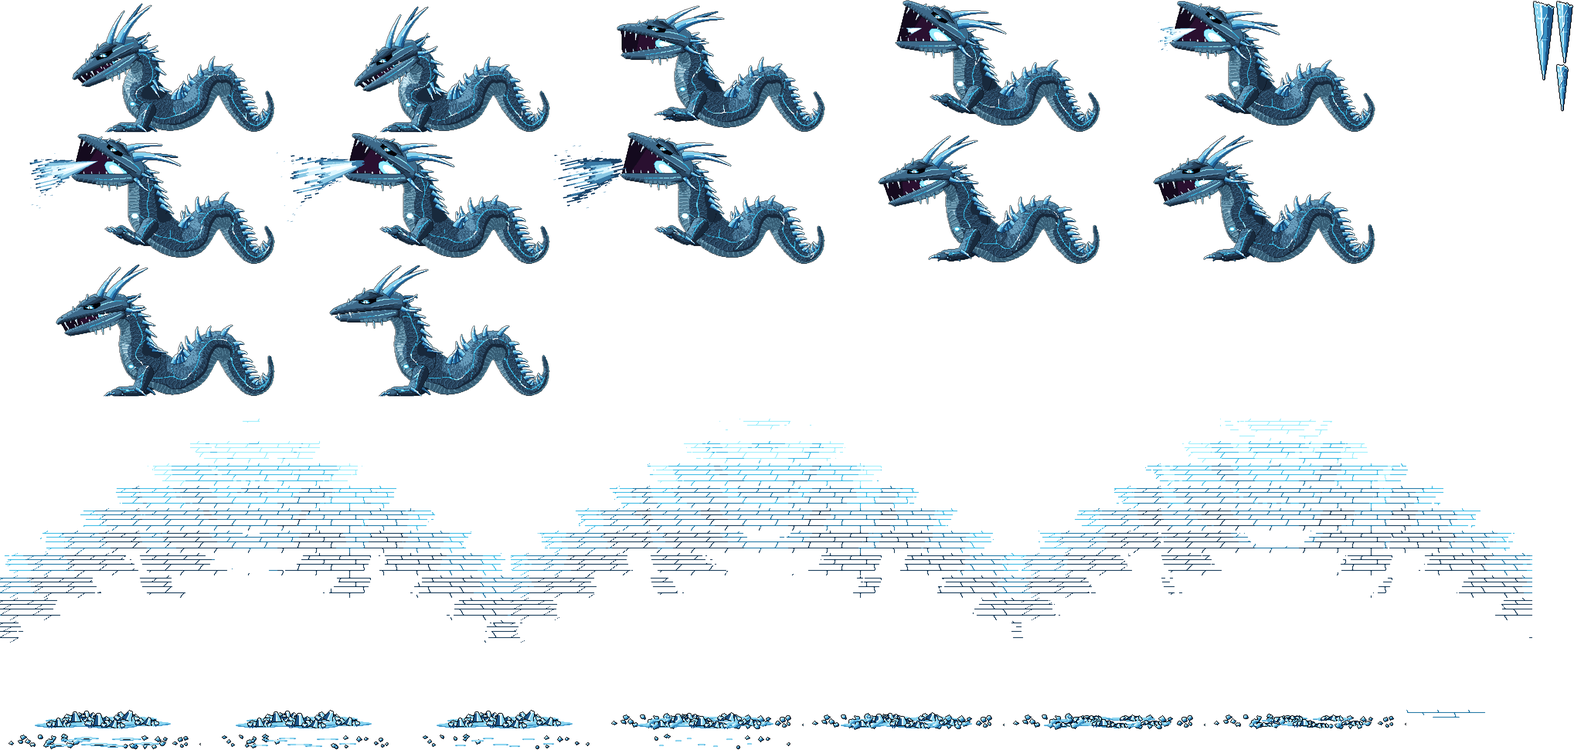
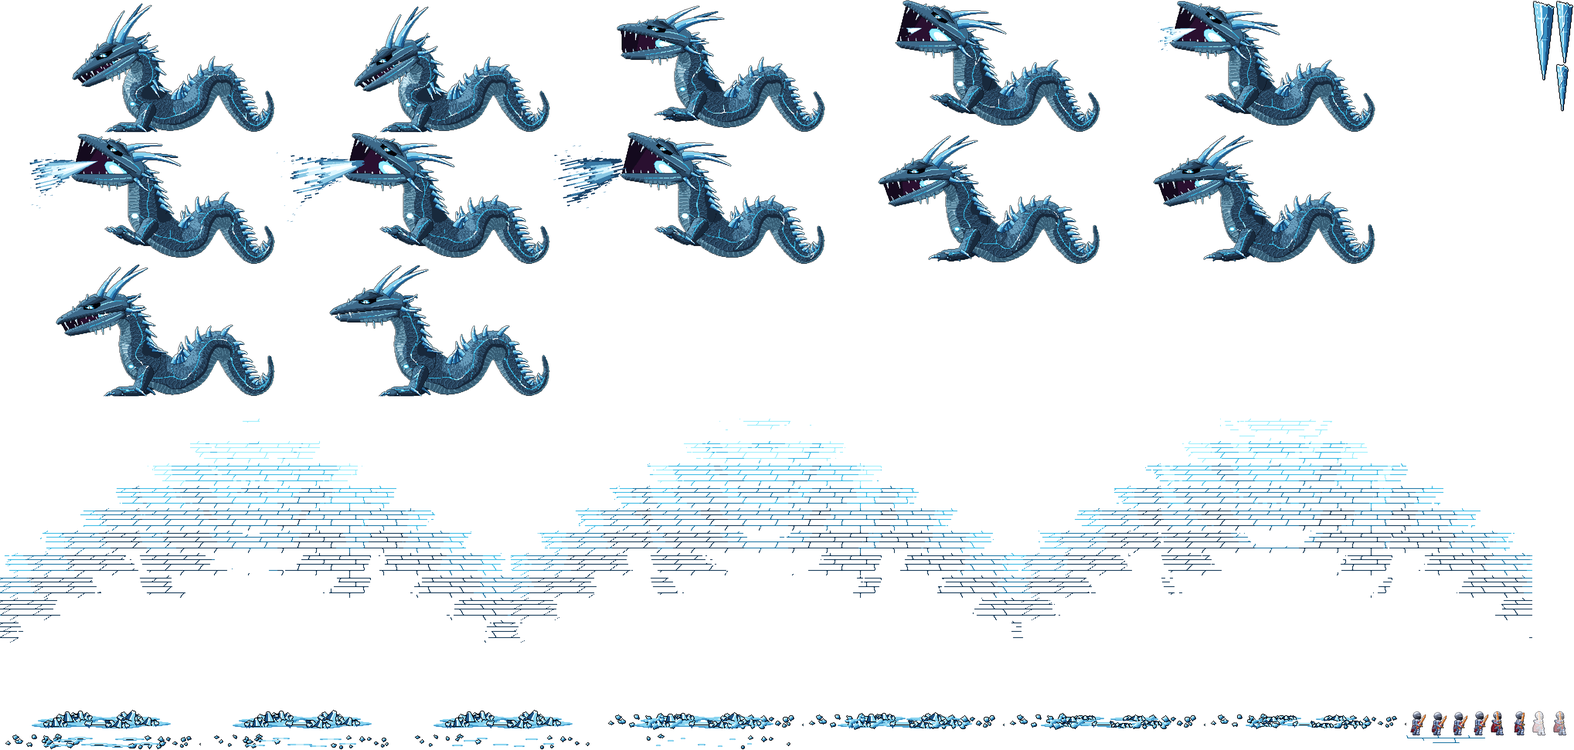
Bosskino: Bosse greifen einen Helden an (echte Spielfigur, kleine Trefferanimation)
Claude-Session: https://claude.ai/code/session_016qez4g2cYdi8Ag5boUatPM

diff --git a/site/bosskino.js b/site/bosskino.js
@@ -2,6 +2,8 @@
 // Eine breite Bühne zeigt die Bosse nacheinander, jeden riesig in seinem Gebiet: Ebenen mit Parallaxe in ganzen
 // Szenenpixeln, Ruhe aus Teilen mit eigenen Zyklen, dann seine Signatur-Attacke: gestufte Warnmarke am Boden → Ausholen →
 // Halten → Einschlag (Treffer-Einfrieren „stopp“, abklingendes Beben „beben“) → Effekt durch die Bodenfugen und den Raum → Ausklingen.
+// Ziel der Attacke ist ein Held (echte Spielfigur, klein gegenüber dem Boss, META held): Kampfhaltung in Ruhe, beim Treffer
+// ein harter Blitz und kurzes Zurückweichen; die Spur der Feuer-/Wasserwand brennt hinter ihm, die Wand selbst rollt über ihn.
 // Bilder im Feinraster wie im Spiel (META.szene.F Feinpixel je Szenenpixel), gezeichnet mit e Gerätepixeln je Feinpixel
 // (ganzzahlig); Lagen und Bewegungen in Szenenpixeln. Wechsel als Ascheauflösung in Blöcken.
 // Die Bildatlanten werden erst geladen, wenn der Abschnitt naht; die Schleife läuft nur, solange die Bühne sichtbar ist.
@@ -13,7 +15,7 @@
   const poster = stage?.querySelector('img');
   if (!root || !stage || !poster) return;
   // <bosskino.mjs> – von tools/bosskino.mjs geschrieben, nicht von Hand ändern
-  const META = {"szene":{"W":560,"H":216,"FY":190,"F":2,"X0":-152,"X1":712},"reihe":["nerith","skalvyr","malgareth"],"bosse":{"nerith":{"glut":["#e4fff9","#3cc8b8","#0d5f5a"],"fokus":[300,290],"teilchen":"geist","dichte":3,"dauer":9.5,"start":2.2,"stopp":80,"beben":[[0,3],[2,-2],[-2,1],[1,-1],[0,1],[1,0]],"name":"nerith","fig":{"x":216,"y":22,"w":285,"h":169},"ruhe":[{"n":12,"ms":160,"r":"koerper"}],"moment":{"f":[[0,150],[1,130],[2,120],[3,120],[4,120],[5,120],[6,60],[7,70],[8,80],[9,110],[10,160],[11,220],[12,150],[13,150]],"hit":7},"nach":"boden-glut","ereignisse":[{"k":"bild","r":"welle","at":0,"x":-152,"y":187,"w":400,"h":29,"n":37,"ms":60,"z":"boden"},{"k":"bild","r":"krone","at":0,"x":209,"y":100,"w":64,"h":92,"n":9,"ms":70,"quer":true,"z":"vorn"},{"k":"wand","r":"wand","r2":"wand2","r3":"wand3","at":60,"x":227,"y":193,"dir":-1,"v":260,"weg":373,"w":76,"h":72,"w2":30,"h2":22,"w3":18,"h3":12,"n":6,"ms":80,"abst":9,"nach":620,"z":"vorn","einzeln":true,"staub":["#c6eaf6","#6cb8da","#3384ae"]},{"k":"funken","at":0,"x":241,"y":188,"n":36,"r":6,"vx":70,"vy":160,"g":320,"c":["#c6eaf6","#76bcdc","#3886b2","#1a4f78"]},{"k":"funken","at":40,"x":241,"y":189,"n":18,"r":12,"vx":20,"vy":40,"g":0,"c":["#e4fff9","#8cf0e2","#3cc8b8","#0d5f5a"]}],"warn":{"x0":10,"x1":233,"y":187,"h":7,"dir":-1,"vor":700,"c":["#063a48","#0e7888","#a0fff0"]},"schalen":[[84,127],[460,127]],"schale":{"w":16,"h":20,"n":6,"ms":90},"schaleNach":"mitte-glut","blaetter":2,"dims":[[4026,1948],[3872,804]],"layers":[{"name":"fern","x":-152,"y":0,"f":0.15,"r":[1728,432,[1,0,0,1,1]]},{"name":"fern-glut","x":126,"y":19,"f":0.15,"glow":{"per":4.2,"lo":0.45,"steps":3},"r":[992,262,[1,1728,432,1,1]]},{"name":"mitte","x":-152,"y":30,"f":0.45,"r":[1728,372,[1,0,432,1,1]]},{"name":"mitte-glut","x":36,"y":70,"f":0.45,"glow":{"per":3.7,"lo":0.55,"steps":3},"r":[954,152,[1,2720,616,1,1]]},{"name":"boden","x":-152,"y":186,"f":1,"r":[1728,60,[0,912,1804,1,1]]},{"name":"boden-glut","x":267,"y":187,"f":1,"glow":{"per":2.8,"lo":0.45,"steps":3},"r":[360,58,[0,2640,1804,1,1]]},{"name":"vorn","x":-152,"y":0,"f":1.35,"r":[1714,432,[1,1728,0,1,1]]}],"figur":{"r":{"koerper":[366,332,[0,0,676,11,12]],"moment":[570,338,[0,0,0,7,14]]},"o":{"koerper":[85,3,183,166],"moment":[0,0,285,169]}},"fxr":{"wand":[152,144,[0,0,1804,6,6]],"wand2":[60,44,[0,3000,1804,6,6]],"wand3":[36,24,[0,3552,1804,6,6]],"schale":[32,40,[0,3360,1804,6,6]],"krone":[128,184,[1,2720,432,9,9]],"welle":[800,58,[0,0,1340,5,37]]}},"skalvyr":{"glut":["#ffffff","#9aeefc","#34b8e4"],"fokus":[296,298],"teilchen":"schnee","dichte":5,"dauer":9.5,"start":2.2,"beben":[[0,4],[3,-3],[-3,2],[2,-2],[-2,1],[1,-1],[0,1],[1,0]],"stopp":80,"name":"skalvyr","fig":{"x":167,"y":20,"w":356,"h":171},"ruhe":[{"n":12,"ms":150,"r":"koerper"}],"moment":{"f":[[0,150],[1,170],[2,100],[3,110],[4,110],[5,110],[6,110],[7,110],[8,150],[9,170],[10,190],[11,170]],"hit":8},"nach":"boden-glut","ereignisse":[{"k":"bild","r":"schatten","at":-770,"x":62,"y":176,"w":260,"h":26,"n":20,"ms":40,"quer":true,"z":"boden"},{"k":"bild","r":"reste","at":270,"x":62,"y":176,"w":260,"h":26,"n":11,"ms":150,"quer":true,"z":"boden"},{"k":"bild","r":"welle","at":0,"x":-138,"y":187,"w":661,"h":29,"n":41,"ms":60,"z":"boden"},{"k":"zapfen","r":"zapfen-s","r2":"steckt-s","at":-20,"x":174,"y":187,"vor":640,"w":18,"h":62,"n":5,"ms":16,"sw":54,"sh":68,"mr":1,"z":"vorn"},{"k":"zapfen","r":"zapfen-m","r2":"steckt-m","at":-70,"x":226,"y":188,"vor":640,"w":24,"h":82,"n":5,"ms":26,"sw":60,"sh":88,"mr":1,"z":"vorn"},{"k":"zapfen","r":"zapfen-m","r2":"steckt-m","at":-110,"x":160,"y":190,"vor":640,"w":24,"h":82,"n":5,"ms":34,"sw":60,"sh":88,"mr":1,"z":"vorn"},{"k":"zapfen","r":"zapfen-s","r2":"steckt-s","at":-130,"x":252,"y":194,"vor":640,"w":18,"h":62,"n":5,"ms":38,"sw":54,"sh":68,"mr":1,"z":"vorn"},{"k":"zapfen","r":"zapfen-l","r2":"steckt-l","at":0,"x":190,"y":195,"vor":640,"w":30,"h":104,"n":5,"ms":12,"sw":66,"sh":110,"mr":1,"z":"vorn"},{"k":"zapfen","r":"zapfen-s","r2":"steckt-s","at":-40,"x":138,"y":196,"vor":640,"w":18,"h":62,"n":5,"ms":20,"sw":54,"sh":68,"mr":1,"z":"vorn"},{"k":"zapfen","r":"zapfen-s","r2":"steckt-s","at":-90,"x":208,"y":197,"vor":640,"w":18,"h":62,"n":5,"ms":30,"sw":54,"sh":68,"mr":1,"z":"vorn"},{"k":"bild","r":"kranz","at":0,"x":62,"y":52,"w":260,"h":150,"n":12,"ms":60,"quer":true,"z":"vorn"},{"k":"funken","at":-520,"x":200,"y":10,"n":10,"r":16,"vx":6,"vy":-30,"g":140,"c":["#ffffff","#9aeefc","#34b8e4","#1670a0"]},{"k":"funken","at":-460,"x":150,"y":10,"n":10,"r":16,"vx":6,"vy":-30,"g":140,"c":["#ffffff","#9aeefc","#34b8e4","#1670a0"]},{"k":"funken","at":-400,"x":250,"y":10,"n":10,"r":16,"vx":6,"vy":-30,"g":140,"c":["#ffffff","#9aeefc","#34b8e4","#1670a0"]},{"k":"funken","at":-340,"x":120,"y":10,"n":10,"r":16,"vx":6,"vy":-30,"g":140,"c":["#ffffff","#9aeefc","#34b8e4","#1670a0"]},{"k":"funken","at":-280,"x":228,"y":10,"n":10,"r":16,"vx":6,"vy":-30,"g":140,"c":["#ffffff","#9aeefc","#34b8e4","#1670a0"]},{"k":"funken","at":-220,"x":176,"y":10,"n":10,"r":16,"vx":6,"vy":-30,"g":140,"c":["#ffffff","#9aeefc","#34b8e4","#1670a0"]}],"warn":null,"blaetter":3,"dims":[[4074,1942],[4056,1936],[3640,588]],"layers":[{"name":"fern","x":-152,"y":0,"f":0.15,"r":[1728,432,[1,0,1284,1,1]]},{"name":"fern-glut","x":264,"y":7,"f":0.15,"glow":{"per":3.8,"lo":0.55,"steps":3},"r":[220,342,[1,3640,0,1,1]]},{"name":"mitte","x":-152,"y":0,"f":0.45,"r":[1728,432,[1,1728,1284,1,1]]},{"name":"mitte-glut","x":-140,"y":0,"f":0.45,"glow":{"per":3.1,"lo":0.5,"steps":3},"r":[1696,342,[2,1728,0,1,1]]},{"name":"boden","x":-152,"y":186,"f":1,"r":[1728,60,[1,660,1716,1,1]]},{"name":"boden-glut","x":341,"y":192,"f":1,"glow":{"per":3.3,"lo":0.4,"steps":3},"r":[204,20,[0,3640,1838,1,1]]},{"name":"vorn","x":-152,"y":0,"f":1.35,"r":[1728,432,[2,0,0,1,1]]}],"figur":{"r":{"koerper":[598,342,[1,0,0,6,12]],"moment":[712,342,[0,0,0,5,12]]},"o":{"koerper":[57,0,299,171],"moment":[0,0,356,171]}},"fxr":{"zapfen-l":[60,208,[0,3966,0,1,1]],"steckt-l":[132,220,[1,0,1716,5,5]],"zapfen-m":[48,164,[0,4026,0,1,1]],"steckt-m":[120,176,[1,3456,1284,5,5]],"zapfen-s":[36,124,[0,4026,164,1,1]],"steckt-s":[108,136,[1,3456,1460,5,5]],"kranz":[520,300,[1,0,684,7,12]],"schatten":[520,52,[2,0,432,7,20]],"reste":[520,52,[0,0,1838,7,11]],"welle":[1322,58,[0,0,1026,3,41]]}},"malgareth":{"name":"malgareth","glut":["#fff2c0","#ffb648","#c8420c"],"fokus":[300,290],"fig":{"x":209,"y":23,"w":272,"h":171},"ruhe":[{"r":"hinten","n":8,"ms":170},{"r":"koerper","seq":[0,0,0,1,1,2,2,2,1,1],"ms":210},{"r":"krone","n":6,"ms":100,"dy":[0,-1,-2],"von":"koerper"},{"r":"flamme","n":6,"ms":100}],"moment":{"f":[[0,130],[1,110],[2,110],[3,80],[4,80],[5,80],[6,80],[7,80],[8,80],[9,80],[10,60],[11,50],[12,60],[13,70],[14,90],[15,110],[16,140],[17,140],[18,140],[19,110],[20,130],[21,110],[22,130],[23,120]],"hit":12},"stopp":80,"beben":[[0,3],[2,-2],[-1,1],[1,0]],"warn":{"x0":8,"x1":242,"y":187,"h":7,"dir":-1,"vor":760,"c":["#7a1a08","#c8420c","#ffb648"]},"ereignisse":[{"k":"bild","r":"welle","at":0,"x":-152,"y":187,"w":407,"h":29,"n":36,"ms":60,"z":"boden"},{"k":"bild","r":"blitz","at":0,"x":228,"y":159,"w":41,"h":34,"n":5,"ms":60,"quer":true,"z":"vorn"},{"k":"wand","r":"wand","r2":"wand2","r3":"wand3","at":30,"x":244,"y":193,"dir":-1,"v":300,"weg":330,"w":74,"h":100,"w2":40,"h2":58,"w3":18,"h3":28,"n":6,"ms":70,"abst":8,"nach":680,"z":"vorn"},{"k":"funken","at":0,"x":248,"y":188,"n":34,"r":5,"vx":60,"vy":140,"g":300,"c":["#fff2c0","#ffb648","#e8641a","#a8300a"]},{"k":"funken","at":0,"x":248,"y":189,"n":20,"r":9,"vx":40,"vy":50,"g":80,"c":["#6a5040","#4e3a30","#3a2a24"]}],"schalen":[[70,131],[436,131]],"schale":{"w":16,"h":20,"n":6,"ms":90},"schaleNach":"mitte-glut","teilchen":"asche","dichte":2.2,"nach":"boden-glut","dauer":9.5,"start":2.4,"blaetter":2,"dims":[[4070,1948],[4002,1194]],"layers":[{"name":"fern","x":-152,"y":0,"f":0.15,"r":[1728,432,[1,0,0,1,1]]},{"name":"fern-glut","x":286,"y":0,"f":0.15,"glow":{"per":3.6,"lo":0.55,"steps":3},"r":[338,322,[1,3456,0,1,1]]},{"name":"mitte","x":-152,"y":0,"f":0.45,"r":[1728,432,[1,1728,0,1,1]]},{"name":"mitte-glut","x":73,"y":149,"f":0.45,"glow":{"per":4.1,"lo":0.66,"steps":3},"r":[754,132,[1,3232,836,1,1]]},{"name":"boden","x":-152,"y":186,"f":1,"r":[1728,60,[0,890,1832,1,1]]},{"name":"boden-glut","x":230,"y":187,"f":1,"glow":{"per":3.4,"lo":0.6,"steps":3},"r":[488,44,[0,2834,1832,1,1]]},{"name":"vorn","x":-152,"y":0,"f":1.35,"r":[1386,432,[1,0,432,1,1]]}],"figur":{"fx":143,"fy":167,"r":{"hinten":[374,330,[1,0,864,8,8]],"koerper":[182,314,[1,3456,322,3,3]],"krone":[54,44,[0,3322,1832,6,6]],"flamme":[40,148,[1,2992,836,6,6]],"moment":[544,342,[0,0,0,7,24]]},"o":{"hinten":[51,3,187,165],"koerper":[98,11,91,157],"krone":[131,5,27,22],"flamme":[134,94,20,74],"moment":[0,0,272,171]}},"fxr":{"welle":[814,58,[0,0,1368,5,36]],"wand":[148,200,[1,2992,636,6,6]],"wand2":[80,116,[0,0,1832,6,6]],"wand3":[36,56,[0,2618,1832,6,6]],"schale":[32,40,[0,3646,1832,6,6]],"blitz":[82,68,[0,480,1832,5,5]]}}},"v":"6634599ccd"};
+  const META = {"szene":{"W":560,"H":216,"FY":190,"F":2,"X0":-152,"X1":712},"reihe":["nerith","skalvyr","malgareth"],"bosse":{"nerith":{"glut":["#e4fff9","#3cc8b8","#0d5f5a"],"fokus":[300,290],"teilchen":"geist","dichte":3,"dauer":9.5,"start":2.2,"stopp":80,"beben":[[0,3],[2,-2],[-2,1],[1,-1],[0,1],[1,0]],"name":"nerith","fig":{"x":216,"y":22,"w":285,"h":169},"ruhe":[{"n":12,"ms":160,"r":"koerper"}],"moment":{"f":[[0,150],[1,130],[2,120],[3,120],[4,120],[5,120],[6,60],[7,70],[8,80],[9,110],[10,160],[11,220],[12,150],[13,150]],"hit":7},"nach":"boden-glut","ereignisse":[{"k":"bild","r":"welle","at":0,"x":-152,"y":187,"w":400,"h":29,"n":37,"ms":60,"z":"boden"},{"k":"bild","r":"krone","at":0,"x":209,"y":100,"w":64,"h":92,"n":9,"ms":70,"quer":true,"z":"vorn"},{"k":"wand","r":"wand","r2":"wand2","r3":"wand3","at":60,"x":227,"y":193,"dir":-1,"v":260,"weg":373,"w":76,"h":72,"w2":30,"h2":22,"w3":18,"h3":12,"n":6,"ms":80,"abst":9,"nach":620,"z":"vorn","einzeln":true,"staub":["#c6eaf6","#6cb8da","#3384ae"]},{"k":"funken","at":0,"x":241,"y":188,"n":36,"r":6,"vx":70,"vy":160,"g":320,"c":["#c6eaf6","#76bcdc","#3886b2","#1a4f78"]},{"k":"funken","at":40,"x":241,"y":189,"n":18,"r":12,"vx":20,"vy":40,"g":0,"c":["#e4fff9","#8cf0e2","#3cc8b8","#0d5f5a"]}],"warn":{"x0":10,"x1":233,"y":187,"h":7,"dir":-1,"vor":700,"c":["#063a48","#0e7888","#a0fff0"]},"schalen":[[84,127],[460,127]],"schale":{"w":16,"h":20,"n":6,"ms":90},"schaleNach":"mitte-glut","held":{"x":106,"y":158,"w":27,"h":33,"ruhe":{"n":4,"ms":167},"treffer":{"at":283,"f":[[6,70,-1],[7,70,-2],[4,110,-2],[5,160,-2],[4,90,-2],[5,170,-2],[5,130,-1]]}},"blaetter":2,"dims":[[4026,1948],[3872,804]],"layers":[{"name":"fern","x":-152,"y":0,"f":0.15,"r":[1728,432,[1,0,0,1,1]]},{"name":"fern-glut","x":126,"y":19,"f":0.15,"glow":{"per":4.2,"lo":0.45,"steps":3},"r":[992,262,[1,1728,432,1,1]]},{"name":"mitte","x":-152,"y":30,"f":0.45,"r":[1728,372,[1,0,432,1,1]]},{"name":"mitte-glut","x":36,"y":70,"f":0.45,"glow":{"per":3.7,"lo":0.55,"steps":3},"r":[954,152,[1,2720,616,1,1]]},{"name":"boden","x":-152,"y":186,"f":1,"r":[1728,60,[0,1344,1804,1,1]]},{"name":"boden-glut","x":267,"y":187,"f":1,"glow":{"per":2.8,"lo":0.45,"steps":3},"r":[360,58,[0,3072,1804,1,1]]},{"name":"vorn","x":-152,"y":0,"f":1.35,"r":[1714,432,[1,1728,0,1,1]]}],"figur":{"r":{"koerper":[366,332,[0,0,676,11,12]],"moment":[570,338,[0,0,0,7,14]]},"o":{"koerper":[85,3,183,166],"moment":[0,0,285,169]}},"fxr":{"wand":[152,144,[0,0,1804,6,6]],"wand2":[60,44,[0,3432,1804,6,6]],"wand3":[36,24,[0,3792,1844,6,6]],"schale":[32,40,[0,3792,1804,6,6]],"krone":[128,184,[1,2720,432,9,9]],"welle":[800,58,[0,0,1340,5,37]],"held":[54,66,[0,912,1804,8,8]]}},"skalvyr":{"glut":["#ffffff","#9aeefc","#34b8e4"],"fokus":[296,298],"teilchen":"schnee","dichte":5,"dauer":9.5,"start":2.2,"beben":[[0,4],[3,-3],[-3,2],[2,-2],[-2,1],[1,-1],[0,1],[1,0]],"stopp":80,"name":"skalvyr","fig":{"x":167,"y":20,"w":356,"h":171},"ruhe":[{"n":12,"ms":150,"r":"koerper"}],"moment":{"f":[[0,150],[1,170],[2,100],[3,110],[4,110],[5,110],[6,110],[7,110],[8,150],[9,170],[10,190],[11,170]],"hit":8},"nach":"boden-glut","ereignisse":[{"k":"bild","r":"schatten","at":-770,"x":62,"y":176,"w":260,"h":26,"n":20,"ms":40,"quer":true,"z":"boden"},{"k":"bild","r":"reste","at":270,"x":62,"y":176,"w":260,"h":26,"n":11,"ms":150,"quer":true,"z":"boden"},{"k":"bild","r":"welle","at":0,"x":-138,"y":187,"w":661,"h":29,"n":41,"ms":60,"z":"boden"},{"k":"zapfen","r":"zapfen-s","r2":"steckt-s","at":-20,"x":166,"y":187,"vor":640,"w":18,"h":62,"n":5,"ms":16,"sw":54,"sh":68,"mr":1,"z":"vorn"},{"k":"zapfen","r":"zapfen-m","r2":"steckt-m","at":-70,"x":230,"y":188,"vor":640,"w":24,"h":82,"n":5,"ms":26,"sw":60,"sh":88,"mr":1,"z":"vorn"},{"k":"zapfen","r":"zapfen-m","r2":"steckt-m","at":-110,"x":150,"y":190,"vor":640,"w":24,"h":82,"n":5,"ms":34,"sw":60,"sh":88,"mr":1,"z":"vorn"},{"k":"zapfen","r":"zapfen-s","r2":"steckt-s","at":-130,"x":252,"y":194,"vor":640,"w":18,"h":62,"n":5,"ms":38,"sw":54,"sh":68,"mr":1,"z":"vorn"},{"k":"zapfen","r":"zapfen-l","r2":"steckt-l","at":0,"x":190,"y":195,"vor":640,"w":30,"h":104,"n":5,"ms":12,"sw":66,"sh":110,"mr":1,"z":"vorn"},{"k":"zapfen","r":"zapfen-s","r2":"steckt-s","at":-40,"x":134,"y":196,"vor":640,"w":18,"h":62,"n":5,"ms":20,"sw":54,"sh":68,"mr":1,"z":"vorn"},{"k":"zapfen","r":"zapfen-s","r2":"steckt-s","at":-90,"x":214,"y":197,"vor":640,"w":18,"h":62,"n":5,"ms":30,"sw":54,"sh":68,"mr":1,"z":"vorn"},{"k":"bild","r":"kranz","at":0,"x":62,"y":52,"w":260,"h":150,"n":12,"ms":60,"quer":true,"z":"vorn"},{"k":"funken","at":-520,"x":200,"y":10,"n":10,"r":16,"vx":6,"vy":-30,"g":140,"c":["#ffffff","#9aeefc","#34b8e4","#1670a0"]},{"k":"funken","at":-460,"x":150,"y":10,"n":10,"r":16,"vx":6,"vy":-30,"g":140,"c":["#ffffff","#9aeefc","#34b8e4","#1670a0"]},{"k":"funken","at":-400,"x":250,"y":10,"n":10,"r":16,"vx":6,"vy":-30,"g":140,"c":["#ffffff","#9aeefc","#34b8e4","#1670a0"]},{"k":"funken","at":-340,"x":120,"y":10,"n":10,"r":16,"vx":6,"vy":-30,"g":140,"c":["#ffffff","#9aeefc","#34b8e4","#1670a0"]},{"k":"funken","at":-280,"x":228,"y":10,"n":10,"r":16,"vx":6,"vy":-30,"g":140,"c":["#ffffff","#9aeefc","#34b8e4","#1670a0"]},{"k":"funken","at":-220,"x":176,"y":10,"n":10,"r":16,"vx":6,"vy":-30,"g":140,"c":["#ffffff","#9aeefc","#34b8e4","#1670a0"]}],"warn":null,"held":{"x":176,"y":158,"w":27,"h":33,"ruhe":{"n":4,"ms":167},"treffer":{"at":40,"f":[[6,70,-1],[7,70,-2],[4,110,-2],[5,160,-2],[4,90,-2],[5,170,-2],[5,130,-1]]}},"blaetter":3,"dims":[[4074,1942],[4056,1936],[3640,588]],"layers":[{"name":"fern","x":-152,"y":0,"f":0.15,"r":[1728,432,[1,0,1284,1,1]]},{"name":"fern-glut","x":264,"y":7,"f":0.15,"glow":{"per":3.8,"lo":0.55,"steps":3},"r":[220,342,[1,3640,0,1,1]]},{"name":"mitte","x":-152,"y":0,"f":0.45,"r":[1728,432,[1,1728,1284,1,1]]},{"name":"mitte-glut","x":-140,"y":0,"f":0.45,"glow":{"per":3.1,"lo":0.5,"steps":3},"r":[1696,342,[2,1728,0,1,1]]},{"name":"boden","x":-152,"y":186,"f":1,"r":[1728,60,[1,660,1716,1,1]]},{"name":"boden-glut","x":341,"y":192,"f":1,"glow":{"per":3.3,"lo":0.4,"steps":3},"r":[204,20,[0,3640,1904,1,1]]},{"name":"vorn","x":-152,"y":0,"f":1.35,"r":[1728,432,[2,0,0,1,1]]}],"figur":{"r":{"koerper":[598,342,[1,0,0,6,12]],"moment":[712,342,[0,0,0,5,12]]},"o":{"koerper":[57,0,299,171],"moment":[0,0,356,171]}},"fxr":{"zapfen-l":[60,208,[0,3966,0,1,1]],"steckt-l":[132,220,[1,0,1716,5,5]],"zapfen-m":[48,164,[0,4026,0,1,1]],"steckt-m":[120,176,[1,3456,1284,5,5]],"zapfen-s":[36,124,[0,4026,164,1,1]],"steckt-s":[108,136,[1,3456,1460,5,5]],"kranz":[520,300,[1,0,684,7,12]],"schatten":[520,52,[2,0,432,7,20]],"reste":[520,52,[0,0,1838,7,11]],"welle":[1322,58,[0,0,1026,3,41]],"held":[54,66,[0,3640,1838,8,8]]}},"malgareth":{"name":"malgareth","glut":["#fff2c0","#ffb648","#c8420c"],"fokus":[300,290],"fig":{"x":209,"y":23,"w":272,"h":171},"ruhe":[{"r":"hinten","n":8,"ms":170},{"r":"koerper","seq":[0,0,0,1,1,2,2,2,1,1],"ms":210},{"r":"krone","n":6,"ms":100,"dy":[0,-1,-2],"von":"koerper"},{"r":"flamme","n":6,"ms":100}],"moment":{"f":[[0,130],[1,110],[2,110],[3,80],[4,80],[5,80],[6,80],[7,80],[8,80],[9,80],[10,60],[11,50],[12,60],[13,70],[14,90],[15,110],[16,140],[17,140],[18,140],[19,110],[20,130],[21,110],[22,130],[23,120]],"hit":12},"stopp":80,"beben":[[0,3],[2,-2],[-1,1],[1,0]],"warn":{"x0":8,"x1":242,"y":187,"h":7,"dir":-1,"vor":760,"c":["#7a1a08","#c8420c","#ffb648"]},"ereignisse":[{"k":"bild","r":"welle","at":0,"x":-152,"y":187,"w":407,"h":29,"n":36,"ms":60,"z":"boden"},{"k":"bild","r":"blitz","at":0,"x":228,"y":159,"w":41,"h":34,"n":5,"ms":60,"quer":true,"z":"vorn"},{"k":"wand","r":"wand","r2":"wand2","r3":"wand3","at":30,"x":244,"y":193,"dir":-1,"v":300,"weg":330,"w":74,"h":100,"w2":40,"h2":58,"w3":18,"h3":28,"n":6,"ms":70,"abst":8,"nach":680,"z":"vorn"},{"k":"funken","at":0,"x":248,"y":188,"n":34,"r":5,"vx":60,"vy":140,"g":300,"c":["#fff2c0","#ffb648","#e8641a","#a8300a"]},{"k":"funken","at":0,"x":248,"y":189,"n":20,"r":9,"vx":40,"vy":50,"g":80,"c":["#6a5040","#4e3a30","#3a2a24"]}],"schalen":[[70,131],[436,131]],"schale":{"w":16,"h":20,"n":6,"ms":90},"schaleNach":"mitte-glut","teilchen":"asche","dichte":2.2,"nach":"boden-glut","dauer":9.5,"start":2.4,"held":{"x":128,"y":158,"w":27,"h":33,"ruhe":{"n":4,"ms":167},"treffer":{"at":210,"f":[[6,70,-1],[7,70,-2],[4,110,-2],[5,160,-2],[4,90,-2],[5,170,-2],[5,130,-1]]}},"blaetter":2,"dims":[[4078,1948],[4002,1194]],"layers":[{"name":"fern","x":-152,"y":0,"f":0.15,"r":[1728,432,[1,0,0,1,1]]},{"name":"fern-glut","x":286,"y":0,"f":0.15,"glow":{"per":3.6,"lo":0.55,"steps":3},"r":[338,322,[1,3456,0,1,1]]},{"name":"mitte","x":-152,"y":0,"f":0.45,"r":[1728,432,[1,1728,0,1,1]]},{"name":"mitte-glut","x":73,"y":149,"f":0.45,"glow":{"per":4.1,"lo":0.66,"steps":3},"r":[754,132,[1,3232,836,1,1]]},{"name":"boden","x":-152,"y":186,"f":1,"r":[1728,60,[0,1322,1832,1,1]]},{"name":"boden-glut","x":230,"y":187,"f":1,"glow":{"per":3.4,"lo":0.6,"steps":3},"r":[488,44,[0,3266,1832,1,1]]},{"name":"vorn","x":-152,"y":0,"f":1.35,"r":[1386,432,[1,0,432,1,1]]}],"figur":{"fx":143,"fy":167,"r":{"hinten":[374,330,[1,0,864,8,8]],"koerper":[182,314,[1,3456,322,3,3]],"krone":[54,44,[0,3754,1832,6,6]],"flamme":[40,148,[1,2992,836,6,6]],"moment":[544,342,[0,0,0,7,24]]},"o":{"hinten":[51,3,187,165],"koerper":[98,11,91,157],"krone":[131,5,27,22],"flamme":[134,94,20,74],"moment":[0,0,272,171]}},"fxr":{"welle":[814,58,[0,0,1368,5,36]],"wand":[148,200,[1,2992,636,6,6]],"wand2":[80,116,[0,0,1832,6,6]],"wand3":[36,56,[0,3050,1832,6,6]],"schale":[32,40,[0,3266,1876,6,6]],"blitz":[82,68,[0,480,1832,5,5]],"held":[54,66,[0,890,1832,8,8]]}}},"v":"4f445cc1c4"};
   // </bosskino.mjs>
   if (!META) return;
   const S = META.szene;
@@ -87,6 +89,7 @@
     // breiter als die Szene (Laptops mit e = 1): auf die Szenenmitte, die verlängerten Hintergründe füllen die Bühne;
     // schmaler: Ausschnitt um den Boss (fokus) innerhalb der Szene
     camX = vw >= S.W - 12 ? Math.max(X0, Math.floor((S.W - vw) / 2)) : Math.max(6, Math.min(S.W - 6 - Math.ceil(vw), Math.round(fx - vw / 2)));
+    if (m.held && vw < S.W - 12) camX = Math.max(6, Math.min(camX, m.held.x - 6));   // der Held bleibt im Bild
     // niedriger als die Szene: unten zuerst kürzen (unter dem Boden), Krone und Kopf (fig.y) bleiben im Bild
     camY = Math.max(0, Math.min(S.H - vh, (m.fig?.y ?? 20) - 4));
   };
@@ -284,6 +287,16 @@
         blit(R[p.r], k * o[2], 0, o[2], o[3], x + o[0], y + o[1] + (p.dy ? p.dy[cur_[p.von]] ?? 0 : 0), 1);
       }
     };
+    // Held: Ruhe (Bilder des Spiels im eigenen Takt), Treffer ab hit + treffer.at als feste Folge [Bild, ms, Versatz x]
+    const drawHeld = (m, mt) => {
+      const H = m.held;
+      if (!H) return;
+      let k = Math.floor((T * 1000) / H.ruhe.ms) % H.ruhe.n, dx = 0;
+      const ht = mt - hitMs(m) - H.treffer.at;
+      if (mt > -1e8 && ht >= 0) { const i = frameAt(H.treffer.f, ht); if (i >= 0) [k, , dx] = H.treffer.f[i]; }
+      if (reduced) k = 0;
+      blit(m.fxr.held, k * H.w, 0, H.w, H.h, H.x + dx, H.y, 1);
+    };
     const drawWarn = (m, mt) => {
       const W_ = m.warn, hm = hitMs(m);
       if (!W_ || mt < -W_.vor || mt >= hm) return;
@@ -333,9 +346,11 @@
         blit(m.fxr[e.r2], k * e.sw, 0, e.sw, e.sh, e.x - (e.sw >> 1), e.y - e.sh + 2, 1);
       }
     };
-    const drawEvents = (m, mt, z) => {
+    // hinter: nur die Spur der Wand links vom Boss (wird vor dem Helden gezeichnet, die Wand selbst danach über ihn)
+    const drawEvents = (m, mt, z, hinter = false) => {
       const hm = hitMs(m);
       for (const e of m.ereignisse) {
+        if (hinter && e.k !== 'wand') continue;
         if (e.k === 'zapfen') { drawZapfen(m, e, mt - hm - e.at + e.vor, z); continue; }
         if (e.z !== z) continue;
         const et = mt - hm - e.at;
@@ -349,18 +364,20 @@
           if (e.loop) k %= e.loop;
           if (e.quer) blit(r, k * e.w, 0, e.w, e.h, e.x, e.y, 1); else blit(r, 0, k * e.h, e.w, e.h, e.x, e.y, 1);
         } else if (e.k === 'wand') {   // Flammenwand läuft in ganzen Pixeln über den Boden, dahinter brennt eine Spur nieder
-          // am Handy endet sie vor dem linken Bildrand des Ausschnitts
-          const weg = narrow.matches ? Math.min(e.weg, Math.abs(e.x - (e.dir < 0 ? camX : camX + vw)) - e.w - 6) : e.weg;
+          // am Handy endet sie vor dem linken Bildrand des Ausschnitts, läuft aber immer ganz über den Helden
+          const H = m.held, overHeld = H ? (e.dir < 0 ? e.x - H.x : H.x + H.w - e.x) + (e.w >> 1) + 2 : 0;
+          const weg = narrow.matches ? Math.min(e.weg, Math.max(overHeld, Math.abs(e.x - (e.dir < 0 ? camX : camX + vw)) - e.w - 6)) : e.weg;
           const dist = Math.floor((et / 1000) * e.v), R2 = m.fxr[e.r2], R3 = m.fxr[e.r3];
           // Spur: alle e.abst Pixel eine Flamme, groß -> mittel -> klein, versetzt im Takt
           for (let q = e.abst, i = 1; q < Math.min(dist, weg); q += e.abst, i++) {
             const age = et - (q / e.v) * 1000;
             if (age >= e.nach) continue;
             const k = (Math.floor(age / e.ms) + i * 2) % e.n, x = e.x + e.dir * q;
+            if (m.held && hinter !== x < m.fig.x) continue;
             if (age < e.nach * 0.45) blit(R2, k * e.w2, 0, e.w2, e.h2, x - (e.w2 >> 1), e.y - e.h2, 1);
             else blit(R3, k * e.w3, 0, e.w3, e.h3, x - (e.w3 >> 1), e.y - e.h3, 1);
           }
-          if (dist > weg) continue;
+          if (dist > weg || hinter) continue;
           const k = Math.floor(et / e.ms) % e.n, x = e.x + e.dir * dist - (e.w >> 1);
           if (!e.einzeln) blit(r, ((k + 3) % e.n) * e.w, 0, e.w, e.h, x - e.dir * 12, e.y - e.h + 6, 1);   // zweite Säule dahinter, etwas kleiner (einzeln: nur eine)
           blit(r, k * e.w, 0, e.w, e.h, x, e.y - e.h, 1);
@@ -387,6 +404,7 @@
         if (L.name === m.nach) {
           drawEvents(m, mt, 'boden');
           drawWarn(m, mt);
+          if (m.held) { drawEvents(m, mt, 'vorn', true); drawHeld(m, mt); }
           drawFigure(m, inMoment ? mt : -1);
           drawEvents(m, mt, 'vorn');
           for (const q of parts) {

diff --git a/site/index.html b/site/index.html
@@ -145,9 +145,9 @@
     <div class="kino" data-kino>
       <div class="kino-buehne" id="kino-buehne" role="tabpanel" aria-labelledby="k-malgareth">
         <img class="kino-bild" src="img/bosskino.webp" width="560" height="216" alt="" loading="lazy">
-        <p class="sr-only" data-text="nerith" hidden>Nerith, die Ertrunkene Priesterin, ruft im Versunkenen Tempel die Flut und lässt eine Welle über den Boden rollen.</p>
-        <p class="sr-only" data-text="skalvyr" hidden>Skalvyr, der Frostwurm, bäumt sich in den Reifhöhlen auf und lässt Eiszapfen von der Decke regnen.</p>
-        <p class="sr-only" data-text="malgareth">Malgareth, der Aschenfürst, schlägt vor seinem Thron die Flammenklinge in den Boden, eine Wand aus Feuer läuft über den Saal.</p>
+        <p class="sr-only" data-text="nerith" hidden>Nerith, die Ertrunkene Priesterin, ruft im Versunkenen Tempel die Flut. Eine Welle rollt über den Boden und trifft einen Helden, der zurückweicht.</p>
+        <p class="sr-only" data-text="skalvyr" hidden>Skalvyr, der Frostwurm, bäumt sich in den Reifhöhlen auf und lässt Eiszapfen auf einen Helden regnen, der getroffen zurückweicht.</p>
+        <p class="sr-only" data-text="malgareth">Malgareth, der Aschenfürst, schlägt vor seinem Thron die Flammenklinge in den Boden. Eine Wand aus Feuer läuft über den Saal und erfasst einen Helden, der zurückweicht.</p>
       </div>
       <div class="kino-wahl" role="tablist" aria-label="Bosse">
         <button type="button" role="tab" id="k-nerith" data-boss="nerith" aria-controls="kino-buehne" aria-selected="false" tabindex="-1"><b>Nerith</b><span>Der Versunkene Tempel</span><span>Stufe 12</span><i class="kino-lauf" aria-hidden="true"></i></button>

diff --git a/site/tools/bosskino.py b/site/tools/bosskino.py
@@ -6,7 +6,8 @@
 # Farben nach den Boss-Sprites des Spiels (src/sprites/ash_sovereign.js, barrow_king.js, rot_mother.js, frost_wyrm.js).
 # Aufbau: dieses Modul hält Werkzeuge (Figur, Formen, Flammen, Szenenpuffer, Fugenwelle, Atlas); je Boss ein Modul
 # bosskino_<boss>.py mit build() -> dict(Ebenen, Figur, Attacke). main() packt je Boss einen Atlas (bosskino-<boss>.webp),
-# das Standbild (bosskino.webp) und gibt die Maße als JSON aus.
+# das Standbild (bosskino.webp) und gibt die Maße als JSON aus. Jede Attacke zielt auf einen Helden (echte Spielfigur aus
+# bosskino-held.png, siehe add_held), der dem Boss gegenübersteht.
 import math, sys, os, json, hashlib, importlib
 import numpy as np
 from PIL import Image
@@ -781,9 +782,59 @@ def compose(B, t_ms=0, wide=False):
             for x, y in B['meta'].get('schalen', []):
                 put(B['fx']['schale'][:, :sw_], x * K, y * K)
         if L['name'] == B.get('figure_after', 'boden'):
+            hd = B['meta'].get('held')
+            if hd:      # Held in Ruhe (Bild 0) vor dem Boss
+                put(B['fx']['held'][:, :hd['w'] * K], hd['x'] * K, hd['y'] * K)
             F = B['figure']
             put(F['poster'], F['x'] * K, F['y'] * K)
     return img
+
+
+# ------------------------------------------------------------------------------------------- Held (Gegner des Bosses)
+# Die echte Heldenfigur des Spiels (tools/bosskino-held.mjs: getHeroSprites, RES 2 = 2 Feinpixel je Weltpixel), 1 Weltpixel =
+# 1 Szenenpixel wie bei der Reittier-Parade, also deutlich kleiner als die Bosse. Er steht dem Boss gegenüber (Blick rechts),
+# Kampfhaltung des Spiels in Ruhe; trifft ihn die Attacke, blitzt er hart auf (deckende Mischfarben, Umriss bleibt) und
+# weicht mit den Trefferbildern des Spiels kurz zurück. Kein Sterben, keine Zahlen, keine Leisten.
+# x = Fußpunkt (Szene); at = Treffer am Helden in ms nach dem Einschlag (ohne Angabe: wenn die Feuer-/Wasserwand ihn erreicht).
+HELD = {'nerith': dict(x=118), 'skalvyr': dict(x=188, at=40), 'malgareth': dict(x=140)}
+HELD_MS = 167              # Ruhe: 4 Bilder des Spiels (6 fps)
+
+
+def add_held(B, name):
+    cfg = HELD.get(name)
+    if not cfg: return
+    here = os.path.dirname(os.path.abspath(__file__))
+    meta = json.load(open(os.path.join(here, 'bosskino-held.json')))
+    assert meta['res'] == K, 'Heldenbilder nicht im Feinraster des Bosskinos'
+    src = np.array(Image.open(os.path.join(here, 'bosskino-held.png')).convert('RGBA'))
+    fw, fh = meta['w'], meta['h']
+    raw = [src[:, i * fw:(i + 1) * fw].copy() for i in range(meta['n'])]
+    for im in raw: im[:, :, 3] = np.where(im[:, :, 3] >= 128, 255, 0)
+    ruhe = [raw[i] for i in meta['seq']['ruhe']]
+    hurt = [raw[i] for i in meta['seq']['treffer']]
+    glut = hexc(B['meta']['glut'][0])
+
+    def blitz(im, k):
+        """Trefferblitz hart: deckende Bildpunkte k-Anteil zur hellsten Glutfarbe des Bosses gemischt, Umriss bleibt."""
+        a = im[:, :, 3] > 0
+        p = np.pad(a, 1)
+        inner = a & p[:-2, 1:-1] & p[2:, 1:-1] & p[1:-1, :-2] & p[1:-1, 2:]
+        o = im.copy()
+        o[inner, :3] = np.round(im[inner, :3] * (1 - k) + np.array(glut) * k).astype(np.uint8)
+        return o
+    frames = ruhe + hurt + [blitz(hurt[0], 0.75), blitz(hurt[0], 0.4)]
+    nr = len(ruhe); h0, h1, b0, b1 = nr, nr + 1, nr + 2, nr + 3
+    # Treffer: [Bild, ms, Versatz x] – Blitz, Zurückweichen (Trefferbilder des Spiels, 1–2 Szenenpixel zurück), wieder Ruhe
+    seq = [[b0, 70, -1], [b1, 70, -2], [h0, 110, -2], [h1, 160, -2], [h0, 90, -2], [h1, 170, -2], [h1, 130, -1]]
+    at = cfg.get('at')
+    if at is None:
+        w = next(e for e in B['meta']['ereignisse'] if e.get('k') == 'wand')
+        right = cfg['x'] + (fw - meta['fx']) // K - 2          # Vorderkante des Helden (Schwertspitze)
+        at = int(round(w['at'] + max(0, w['x'] - (w['w'] >> 1) - right) / w['v'] * 1000))
+    B['fx']['held'] = strip(frames)
+    B.setdefault('fein', set()).add('held')
+    B['meta']['held'] = {'x': int(cfg['x'] - meta['fx'] // K), 'y': int(FY - meta['fy'] // K), 'w': fw // K, 'h': fh // K,
+                         'ruhe': {'n': nr, 'ms': HELD_MS}, 'treffer': {'at': at, 'f': seq}}
 
 
 def finish(name, FXo, FYo, BX, parts, moment, hit_idx, imp_px, Ld, order, fx, meta, poster_parts=None, nach=None):
@@ -842,6 +893,7 @@ def main():
             print(f'bosskino_{name}.py fehlt, {name} übersprungen', file=sys.stderr); continue
         mod = importlib.import_module('bosskino_' + name)
         B = mod.build()
+        add_held(B, name)
         fein = B.get('fein', set())
         # Ebenen und Effekte im Szenenraster -> Feinraster (Scale2x), Figur und feine Effekte sind es schon
         for L in B['layers']:
@@ -865,6 +917,7 @@ def main():
             if e.get('k') == 'wand': fw.update({'X:' + e['r']: e['w'], 'X:' + e['r2']: e['w2'], 'X:' + e['r3']: e['w3']})
             if e.get('k') == 'zapfen': fw['X:' + e['r2']] = e['sw']
         if m0.get('schale'): fw['X:schale'] = m0['schale']['w']
+        if m0.get('held'): fw['X:held'] = m0['held']['w']
         for k in B['figure']['sheets']: fw['F:' + k] = offs[k][2]
         items = {'L:' + L['name']: L['img'] for L in B['layers']}
         F = B['figure']

diff --git a/site/tools/bosskino_skalvyr.py b/site/tools/bosskino_skalvyr.py
@@ -711,8 +711,9 @@ def outline(im, col=OUT, only_empty=True):
 
 # Salve: (x, Boden-y, Größe, Einschlag-Zeit relativ zum Treffer). Tiefe über y (kleineres y = weiter hinten).
 ZAP = {'l': (30, 104), 'm': (24, 82), 's': (18, 62)}
-SALVE = [(252, 194, 's', -130), (160, 190, 'm', -110), (208, 197, 's', -90), (226, 188, 'm', -70),
-         (138, 196, 's', -40), (174, 187, 's', -20), (190, 195, 'l', 0)]
+# Der große Zapfen (Haupteinschlag) trifft den Helden (bosskino.py HELD, Fuß bei x 188), die übrigen fallen um ihn herum
+SALVE = [(252, 194, 's', -130), (150, 190, 'm', -110), (214, 197, 's', -90), (230, 188, 'm', -70),
+         (134, 196, 's', -40), (166, 187, 's', -20), (190, 195, 'l', 0)]
 SAL_X = 192                              # Mitte des Feldes (Szene)
 
 
@@ -974,6 +975,7 @@ def crown_plan():
         big = {'l': 1.0, 'm': 0.8, 's': 0.62}[sz]
         side = -1 if x < SAL_X else 1
         for j, (da, dl) in enumerate(((-34, 0.75), (8, 1.0), (40, 0.7), (-62, 0.42), (66, 0.4))):
+            if sz == 'l' and j < 3: continue     # am Helden nur die flachen Dornen links und rechts, keiner durch ihn
             ang = da + side * 12 + 6 * hash2(i, j, 3)
             ox = [-6, 0, 6, -11, 11][j]
             out.append((x + ox, y + (1 if j == 1 else 0), ang, 60 * big * dl, (12 * big + 3) * (0.7 if j > 2 else 1)))

diff --git a/site/README.md b/site/README.md
@@ -42,7 +42,12 @@ Alles in `img/` stammt aus dem Spiel, nichts ist nachgemalt:
   Szenenpixeln. Jeder Boss ist eigene Pixel-Art (Farben nach den Boss-Sprites des Spiels in `src/sprites/`), gezeichnet aus Teilen
   mit 4-Ton-Rampen, Umriss und Randlicht, Blick nach links. Ruhe als Teile mit eigenen Zyklen (Atem, Flammen, Umhang …), die Attacke
   als ganze Bilder (Ausholen, Halten, Einschlag mit 1-px-Erschütterung, Nachklang); Warnfläche, Fugenwelle, Feuerwand, Geisterflammen,
-  Wurzeldornen, Sporenwolken und Eiszapfen als Bildfolgen und Ereignisse relativ zum Einschlag. Je Boss ein verlustfreier Atlas
+  Wurzeldornen, Sporenwolken und Eiszapfen als Bildfolgen und Ereignisse relativ zum Einschlag. Ziel der Attacke ist ein Held:
+  die echte Spielfigur (Krieger im Ritterharnisch, `tools/bosskino-held.mjs` rendert sie mit getHeroSprites, RES 2, nach
+  `tools/bosskino-held.png`/`.json`; Server im Repo-Ordner, danach bosskino.mjs neu), 1 Weltpixel = 1 Szenenpixel wie die
+  Reittier-Parade, dem Boss gegenüber (Fußpunkt je Boss in `HELD` in bosskino.py, im Bildausschnitt auch am Handy). Er zeigt nur
+  die Kampfhaltung des Spiels, beim Treffer einen harten Blitz und die Trefferbilder (kurz zurück), kein Sterben, keine Zahlen
+  oder Leisten; Feuer- und Wasserwand rollen über ihn, ihre Spur brennt hinter ihm, Skalvyrs großer Zapfen schlägt bei ihm ein. Je Boss ein verlustfreier Atlas
   `bosskino-<boss>.webp`; Rechtecke, Bildfolgen und Zeiten schreibt das Werkzeug in den Block `<bosskino.mjs>` in `bosskino.js`
   (ein Teillauf ersetzt nur die genannten Bosse). `bosskino.webp` ist das Standbild (Malgareth, ohne JS und bei reduzierter
   Bewegung; dort wechselt ein Klick das Standbild). bosskino.js wechselt alle 9–10 s den Boss (Blöcke zerfallen von unten mit
